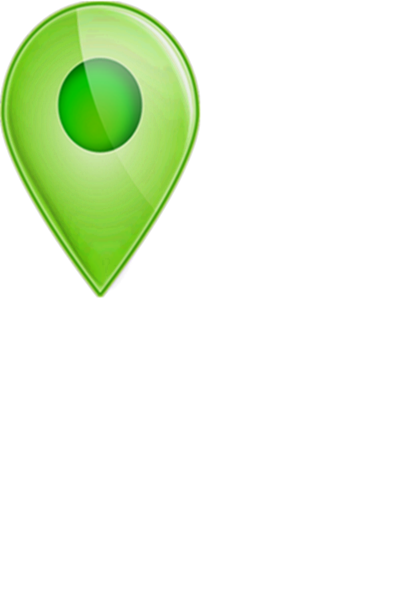
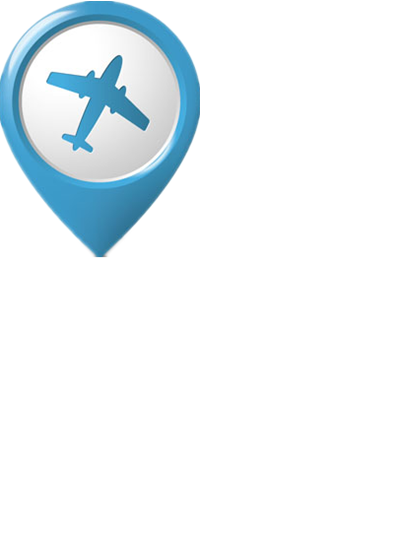
finish page5 page6

Changed region(s): [[0.0, 0.0, 0.51, 0.5103]]

diff --git a/index.html b/index.html
@@ -14,8 +14,8 @@ highlight{color:#3F9;}
 #menu .active a { color: #fff; background-color: #333;}
 .section { text-align: center; font: 50px "Microsoft Yahei"; color: #fff;}
 .section a{text-decoration:none;}
-.section0 p{position: relative; left: -120%;}
-.section0 .sun{postion:relative; left:-45%; bottom:-100%;}
+.section0  p{position: relative; left: -120%;}
+.section0 .sun{postion:absolute; left:-45%; bottom:-100%;}
 .section0 .sun img{height:400px;width:600px;}
 .section0 .huojian{position:relative; left:-60%; bottom:-20%}
 .section0 .huojian img{height:150px; width:150px;}
@@ -23,36 +23,49 @@ highlight{color:#3F9;}
 .section1  div{position:relative; float:left;}
 .section1 .connect{padding-left:60px; padding-right:60px;height:300px; width:450px;background:url(images/yuyan1.png)}
 .section1 .connect img{height:30px; width:30px; vertical-align:text-bottom;}
-.section1 .informat{ height:300px; width:200px;left:0%;background:url(images/yuyan1.png)}
+.section1 .informat{ height:300px; width:400px;left:0%; top:0%;background:url(images/yuyan1.png)}
 .section1 .informat img{height:30px; width:30px;vertical-align:text-bottom;}
+.section1 .girl{ postion:absolute; left:300px; top:50px;}
 .section1 .girl img{height:400px; width:300px;}
 .section1 .niu{position:relative; bottom: -120%; left:0%;}
 .section1 .niu img{height:150px; width:150px;}
 .section2 .blackbord{margin:0 auto; height:500px; width:800px; background:url(images/heiban.jpg);}
 .section2 .blackbord img{position: relative;}
-.section2  p{position: relative; left: 0%; bottom:-10%;}
+.section2  p{position: absolute; left: 0%; bottom:-10%;}
 .section2 .hend{position:relative; left:-150%; bottom:-10%;}
 .section2 .hend img{position:relative; height:200px;width:200px;}
-.section2 .words{position:relative; float:left; right:-150%; top:0%;}
+.section2 .words{position:relative; float:left; right:-150%; top:-15%;}
 .section2 .words img{position:relative; height:300px; width:600px;}	
-.section3 {background:url(images/map.jpg);}
 .section3 p{font-size:25px; font-weight:bold; display:none}
-.section3 img{display:none;}
+.section3 .loufang img{height:500px; width:500px; position:relative;}
+.section3 .bus img{height:200px; width:200px; position:absolute; top:30%;right:30%}
+.section3 .dianhua img{height:100px; width:100px; position:absolute; top:50%;right:50%}
+.section3 .chengbao img{height:200px; width:200px; position:absolute; top:90%;left:20%}
+.section3 .old img{height:100px; width:100px; position:absolute; top:80%;right:30%}
+.section3 img{display:none; height:150px; width:150px;}
 .section3 h3{position:relative; right:-120%;}
 .section3 .wxhzp p{color:#F3C; position:absolute; left:600px; top:45px;}
 .section3 .dola p{color:#39F; position:absolute; left:245px; top:360px;}
 .section3 .eluosi p{color:#96C; position:absolute; right:280px; top:370px;}
-.section4 {background:url(images/white.jpg);}
-.section4 p{position: relative; bottom: -120%;}
-.section4 .caodi{position:absolute; width:100%; left:10px; top:570px;}
-.section4 .caodi img{height:100px;width:200px;}
-.section4 .exp1{position:relative; top:-7%; left:-100%;}
-.section4 .exp1 img{height:300px; width:500px;}
-.section4 .exp2{position:relative; top:10%; left:32%;}
-.section4 .exp2 img{height:300px; width:500px;}
-.section5 p{position: relative; left: -120%;}
-.section6 p{position: relative; bottom: -120%;}
-.section7 p{display: none;}
+.section4  p{position: relative; bottom: -120%;}
+.section4 .superman{position:relative; left:-500px;; top:-800px;}
+.section4 .superman img{height:200px; width:300px;}
+.section4 .php{position:relative; top:-110%; left:10%; height:400px; width:200px;}
+.section4 .php p{font-size:18px;background-color:#6F9;color:#000;}
+.section4 .dadou{position:relative; top:-180%; left:60%;height:400px; width:200px;}
+.section4 .dadou p{font-size:18px;background-color:#C9F;color:#000;}
+.section4 .eluosib{position:relative; top:-230%; left:80%;height:400px; width:200px;}
+.section4 .eluosib p{font-size:18px;background-color:#F96;color:#000;}
+.section5  p{position: relative; left: -120%;}
+.section5 .abl img{height:600px; width:700px;}
+.section5 .abl{position:relative; left:400px; top:100px;}
+.section5 .ablw{position:relative; left:60%; top:-100%;; width:600px; height:600px;}
+.section5 .ablw p{font-size:20px;}
+.srction6 .lufei{height:500px; width:400px;position:relative; top:-20px; left:0px;}
+.section6 .sel{height:500px; width:400px;position:absolute; top:50px; left:500px;}
+.section6 .lufei img{height:500px; width:400px; display:none; position:relative; top:-50px; left:0px;}
+.section6 .xuanyan img{height:500px; width:400px; position:relative; top:0px; left:50px;}
+.section6  p{position: relative; bottom: -120%; font-size:24px;}
 </style>
 <link href="css/style.css" type="text/css" rel="stylesheet">
 <script src="js/jquery-1.8.3.min.js"></script>
@@ -83,6 +96,7 @@ highlight{color:#3F9;}
         	<p><img src="images/male_user.png">现居：北京</p>
             <p><img src="images/red_heart.png">年龄：22 </p>
             <p><img src="images/back.png">民族：汉</p>
+            <p><img src="images/computer.png">毕业院系：东北农业大学/计算机专业</p>
         </div>
 	</div>
      <div class="section section2" id="job">
@@ -95,7 +109,12 @@ highlight{color:#3F9;}
 	</div>
     <div class="section section3" id="exp">
     
-        <h3 style="color:#2ECBC4;">我的作品</h3>
+        <h3 style="color:#2ECBC4; position:absolute; top:50%; left:0%">我的作品</h3>
+        <div class="loufang"><img src="images/loufang.png"></div>
+        <div class="bus"><img src="images/bus.png"></div>
+        <div class="dianhua"><img src="images/dianhuating.png"></div>
+        <div class="old"><img src="images/old1.png"></div>
+        <div class="chengbao"><img src="images/chengbao.png"></div>
         <div class="dibiao1" style="position:absolute; left:280px; top:310px;"><a href="http://cosmetics.ifeng.com/weixin/play?from=singlemessage&isappinstalled=0"><img src="images/tubiao1.png"></a></div>
         <div class="wxhzp"><p><a href="http://cosmetics.ifeng.com/weixin/play?from=singlemessage&isappinstalled=0">微信化妆品小游戏开发</a></p></div>
         <div class="dibiao2" style="position:absolute; left:700px; top:10px;"><a href="others/Doraemon.html"><img src="images/tubiao2.png"></a></div>
@@ -104,19 +123,30 @@ highlight{color:#3F9;}
         <div class="eluosi"><p><a href="others/eluosi.html">俄罗斯方块</a></p></div> 
 	</div>
     <div class="section section4" id="exp">
-        <h3 style="color:#6C9;">项目经历</h3>
-        <p>HTML js CSS</p>
-        <div class="caodi"><img src="images/caodi.png"><img src="images/caodi.png"><img src="images/caodi.png"><img src="images/caodi.png"><img src="images/caodi.png"><img src="images/caodi.png"></div>
-        <div class="exp1"><img src="images/php.jpg"><img src="images/xiaoren.png" style="width:200px; height:200px;"></div>
-        <div class="exp2"><img src="images/dadou.jpg"></div>
+        <h3>项目经历</h3>
+    	<div class="superman"><img src="images/girl2.png"></div>
+        <div class="php"><p>凤凰网PHP组开发
+独立开发一个手机端微信的时尚游戏项目（沿用“别踩白块儿”游戏），负责编写项目中前端逻辑，用js编写整个游戏，并上线推广。
+修改产品提出的更改“化妆品库”界面以及后端调用数据库的相关需求，更改后台登陆界面。优化数据库查询时间，为数据库查询建立索引。查询数据库中的数据，完成产品提出的统计需求。</p></div>
+		<div class="dadou"><p>大豆基因数据挖掘
+将化学实验室中对大豆基因研究的成果以及实验室发表的280篇大豆科研结果通过tees以及textpresso软件搭建研究环境，对数据进行整理统计，将数据放入数据库中，通过配置服务器（对服务器的端口进行监听测试，以及服务器网络间数据传输，对服务器的并发访问次数，访问时间，访问具体路径，访问完成数，失败数，以及发送数据量的测试等，搭建网站，对网页中的相关bug进行测试。</p></div>
+		<div class="eluosib"><p>俄罗斯方块
+用js编写俄罗斯方块小游戏，通过js dom创建节点，并用具体的方法控制方块下落的方向速度等。</p></div>
 	</div>
     <div class="section section5" id="abl">
         <h3>专业技能</h3>
-        <div class="abl"></div>
+        <div class="abl"><img src="images/diannao.png"></div>
+        <div class="ablw"><p>熟悉HTML语言，能较熟练运用js，js dom，了解jQuery框架，熟悉css+div布局，css，实现页面特效和用户交互体验，简单了解css3以及HTML5。会使用Dreamwaver进行前端开发，会使用firebug进行调试。有一定的前端开发经验。
+熟悉C语言以及基本数据结构知识,可以用C语言实现数据结构中栈，队列的线性存储方式以及链式存储方式，以及进行二叉树的遍历。可以用C语言或C++编写简单的算法，如排序（包括快速排序，归并排序，插入排序，选择排序，冒泡排序等），二分查找，以及最短路径等。
+计算机网络：了解TCP/IP协议的相关内容，以及IP地址，默认网关，子网掩码等相关知识。
+数据库：了解简单的数据库增删改查操作。</p></div>
 	</div>
     <div class="section section6" id="info">
-        <h3>自我评价</h3>
-        <p>one  two</p>
+        <h5>我不怕千万人阻挡，我只怕自己投降</h5>
+        <div class="lufei"><img src="images/lufei.jpg"></div>
+        <div class="sel"><p>较强的学习能力和适应能力</p>
+        <p>有良好的沟通能力</p>
+        <p>善于团队合作，踏实肯干！</p></div>
 	</div>
 </div>
 <script src="js/main2.js"></script>

diff --git a/js/main.js b/js/main.js
@@ -7,7 +7,7 @@ $(document).ready(function() {
 					left:'500',bottom:'500'
 				}, 1500,'easeOutExpo');
 	$.fn.fullpage({
-		slidesColor: [ '#2ECBC4','#4BBFC3', '#7BAABE', '#3399FF','#FF828E','#97C853','#1299AC'],
+		slidesColor: [ '#2ECBC4','#4BBFC3', '#7BAABE', '#05A1C7','#FF777A','#1299AC','#28282A'],
 		anchors: ['page0','page1', 'page2', 'page3', 'page4','page5','page6'],
 		navigation: true,
 		afterLoad: function(anchorLink, index){
@@ -26,6 +26,8 @@ $(document).ready(function() {
 				$('.niu').animate({
 					bottom: '0'
 				}, 1500, 'easeOutExpo');
+				$('.girl').delay('500').animate({left: "-=300px"},1500);
+				
 			}
 			if(index == 3){
 				$('.section2').find('.hend').delay(500).animate({
@@ -44,28 +46,37 @@ $(document).ready(function() {
 				$('.section3').find('h3').animate({
 					right: '0'
 				}, 1500, 'easeOutExpo');
+				$('.section3').find('img').fadeIn(4000);
 				
 			}
 			if(index == 5){
-				$('.exp1').delay(500).animate({
-					left: '0'
-				}, 7000, 'easeOutExpo');
-				$('.exp2').animate({
-					top: '-620'
-				}, 4000, 'easeOutExpo');
+				$('.section4').find('.superman').animate({top:'30px',left:'0px'
+					},1500,'easeOutExpo');
 			}
 			if(index == 6){
-				$('.section5').find('p').delay(500).animate({
-					left: '0'
+				$('.ablw').find('p').animate({
+					height:"0px",width:"0px"
 				}, 1500, 'easeOutExpo');
+				
+				$('.abl').find('img').animate({
+					height:"0px",width:"0px"
+				}, 1500, 'easeOutExpo');
+				$('.ablw').find('p').animate({
+					width:"600px"
+				}, 800, 'easeOutExpo');
+				$('.abl').find('img').animate({
+					height:"700px",width:"600px"
+				}, 1500, 'easeOutExpo');
+				
 			}
 			if(index == 7){
-				$('.section6').find('p').delay(500).animate({
+				/*$('.section6').find('p').delay(500).animate({
 					bottom: '0'
-				}, 1500, 'easeOutExpo');
-			}
-			if(index == 8){
-				$('.section7').find('p').fadeIn(2000);
+				}, 1500, 'easeOutExpo');*/
+				$('.lufei').find('img').fadeIn(6000);
+				$('.sel').find('p').delay('2000').animate({
+					bottom:'-300'
+					},1500,'easeOutExpo');
 			}
 		},
 		onLeave: function(index, direction){
@@ -81,6 +92,7 @@ $(document).ready(function() {
 				$('.section1').find('p').delay(500).animate({
 					bottom: '-120%'
 				}, 1500, 'easeOutExpo');
+				$('.girl').delay('500').animate({left: "+=300px"},1500);
 				$('.niu').delay(500).animate({
 					bottom: '-120%'
 				}, 1500, 'easeOutExpo');
@@ -98,34 +110,26 @@ $(document).ready(function() {
 				
 			}
 			if(index == '4'){
-				$('.dibiao1').find('img').fadeOut(2000);
-				$('.dibiao2').find('img').fadeOut(2000);
-				$('.dibiao3').find('img').fadeOut(2000);
+				$('.section3').find('img').delay(500).fadeOut(2000);
 				$('.section3').find('p').slideUp(2000);
 				$('.section3').find('h3').delay(500).animate({
 					right: '-120%'
 				}, 1500, 'easeOutExpo');
 			}
 			if(index =='5'){
-				$('.exp1').delay(600).animate({
-					left: '-120%'
-				}, 1500, 'easeOutExpo');
-				$('.exp2').delay(600).animate({
-					top: '10%'
-				}, 2000, 'easeOutExpo');
+				$('.section4').find('.superman').delay(500).animate({top:'-800px',left:'-500px'
+					},1500,'easeOutExpo');
 			}
 			if(index == '6'){
-				$('.section2').find('p').delay(500).animate({
+				$('.section5').find('p').delay(500).animate({
 					left: '-120%'
 				}, 1500, 'easeOutExpo');
 			}
 			if(index == '7'){
-				$('.section3').find('p').delay(500).animate({
+				$('.section6').find('p').delay(500).animate({
 					bottom: '-120%'
 				}, 1500, 'easeOutExpo');
-			}
-			if(index =='8'){
-				$('.section4').find('p').fadeOut(2000);
+				$('.lufei').find('img').fadeOut(2000);
 			}
 		}
 	});

diff --git a/js/main2.js b/js/main2.js
@@ -1,6 +1,12 @@
 // JavaScript Document
+$('.section1').find('a').mouseover(function(ev){
+		ev.target.style.fontsize = "30px";
+});
+$('.section1').find('a').mouseout(function(ev){
+		ev.target.style.fontsize = "20px;";
+})
 $('.section3').find('p').mouseover(function(ev){
-       ev.target.style.fontSize = "40px";
+       ev.target.style.fontsize = "40px";
 });
 $('.section3').find('h3').mouseover(function(ev){
 		ev.target.style.color = "pink";
